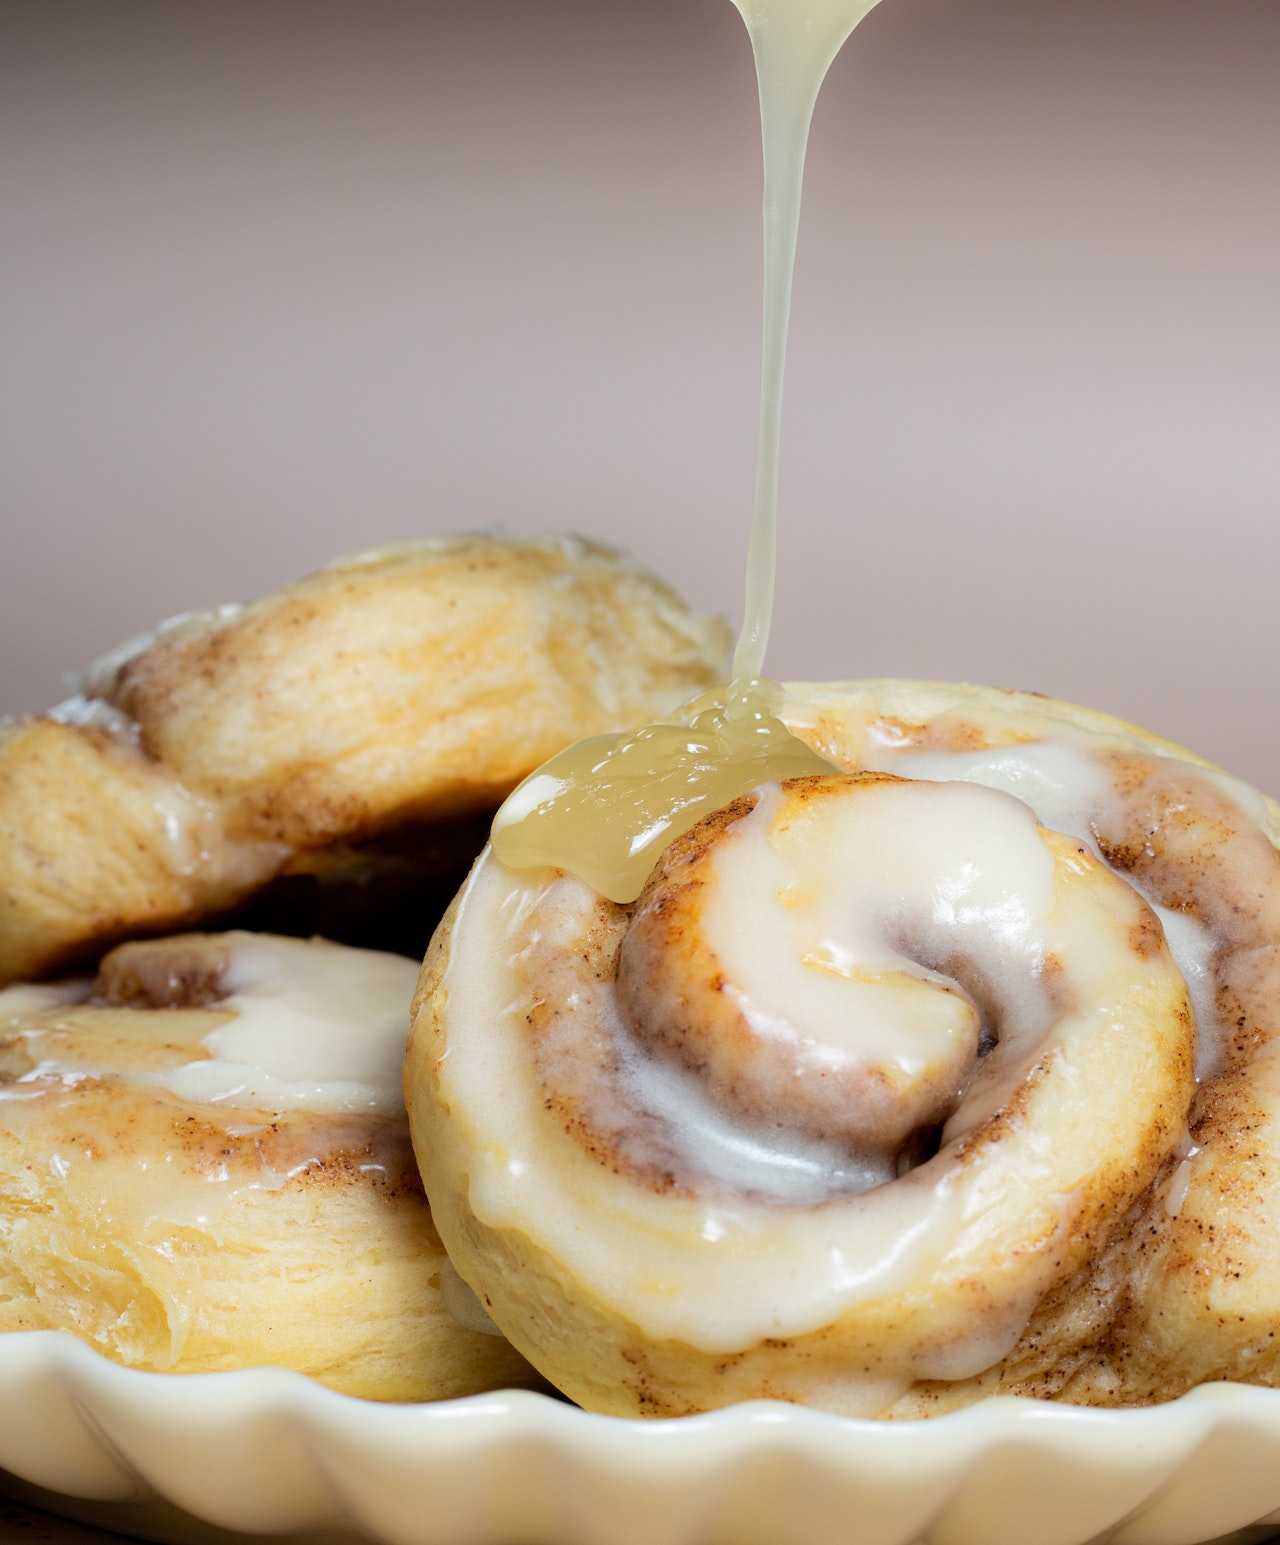
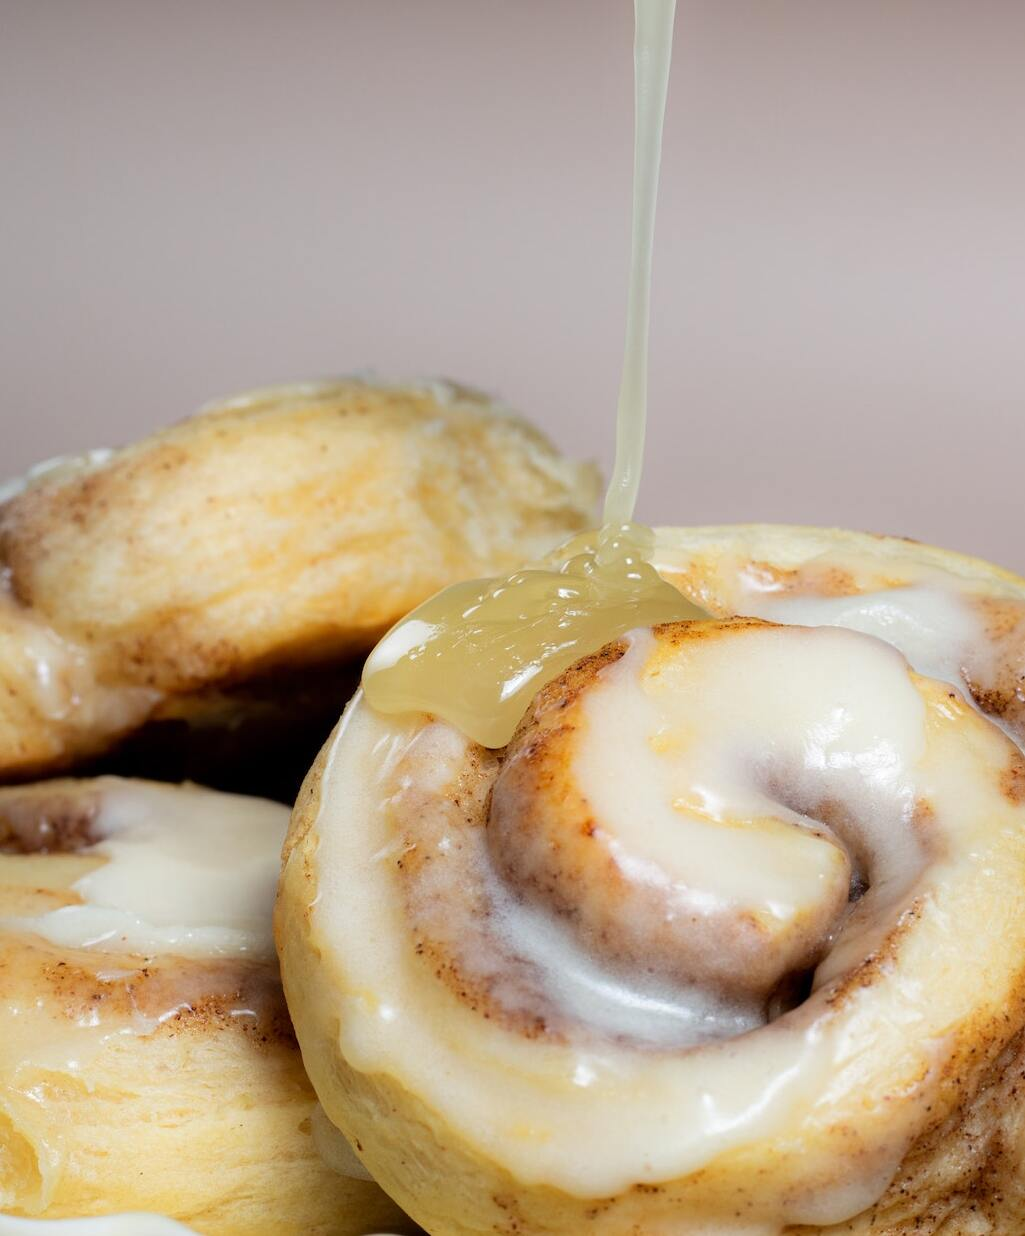
reduciendo tamaño de las imagenes

diff --git a/index.html b/index.html
@@ -10,7 +10,7 @@
     <link href="https://cdn.jsdelivr.net/npm/bootstrap@5.1.3/dist/css/bootstrap.min.css" rel="stylesheet" integrity="sha384-1BmE4kWBq78iYhFldvKuhfTAU6auU8tT94WrHftjDbrCEXSU1oBoqyl2QvZ6jIW3" crossorigin="anonymous">
     <!-- BS 5.1 fin -->
     <link rel="shortcut icon" href="img/muffin.png" type="image/x-icon">
-    <link rel="stylesheet" href="/css/estilos.css">
+    <link rel="stylesheet" href="./css/estilos.css">
     <title>Endúlzate Recetas</title>
 </head>
 <body>

diff --git a/css/estilos.css b/css/estilos.css
@@ -369,4 +369,6 @@ footer a:hover {
     display: flex;
     justify-content: center !important;
   }
-}/*# sourceMappingURL=estilos.css.map */
+}
+
+/*# sourceMappingURL=estilos.css.map */
